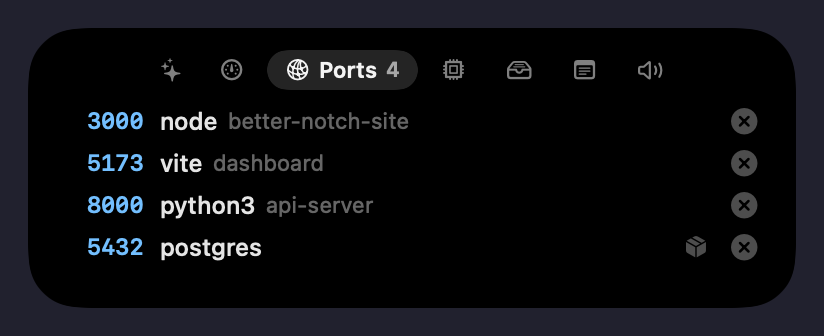
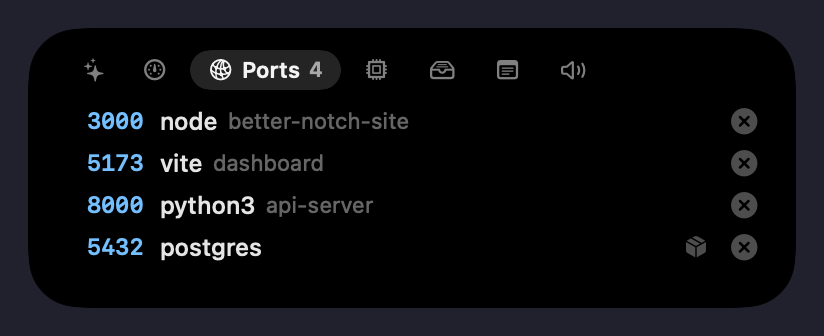
Tab bar lines up with the rows; row hover follows the pointer instantly
- The tab bar starts on the row highlights' 20 pt line instead of centering,
  so the first tab and the session icons share one column
- One continuous hover tracker per list replaces per-row enter and exit
  events and the fade, so the highlight no longer lags the pointer

Changed region(s): [[0.1517, 0.1488, 0.7282, 0.2679], [0.7585, 0.1786, 0.8192, 0.2381], [0.091, 0.1786, 0.1214, 0.2381]]

diff --git a/Notchly/Views/Island/ExtrasPanelView.swift b/Notchly/Views/Island/ExtrasPanelView.swift
@@ -255,8 +255,9 @@ struct ExtrasPanelView: View {
                     .transition(.opacity)
             }
 
+            // Starts on the same line as the row highlights below it, so the panel reads
+            // as one column.
             HStack(spacing: 4) {
-                Spacer(minLength: 0)
                 ForEach(tabs) { tab in
                     TabChip(
                         tab: tab,
@@ -271,6 +272,7 @@ struct ExtrasPanelView: View {
                 }
                 Spacer(minLength: 0)
             }
+            .padding(.leading, IslandMetrics.rowEdgeInset - IslandMetrics.contentInset)
             .frame(height: Self.headerHeight - 4)
             .padding(.bottom, Self.contentGap(for: selected))
 
@@ -465,6 +467,7 @@ struct MicMuteButton: View {
 
 private struct AgentSessionsListView: View {
     @ObservedObject var tracker: AgentSessionTracker
+    @State private var hoveredIndex: Int?
 
     var body: some View {
         if tracker.sessions.isEmpty {
@@ -475,7 +478,7 @@ private struct AgentSessionsListView: View {
         } else {
             TimelineView(.periodic(from: .now, by: 30)) { context in
                 VStack(alignment: .leading, spacing: 0) {
-                    ForEach(tracker.sessions.prefix(6)) { session in
+                    ForEach(Array(tracker.sessions.prefix(6).enumerated()), id: \.element.id) { index, session in
                         Button {
                             tracker.activate(session)
                         } label: {
@@ -483,10 +486,11 @@ private struct AgentSessionsListView: View {
                                 .contentShape(Rectangle())
                         }
                         .buttonStyle(.plain)
-                        .islandHoverRow(height: ExtrasPanelView.agentRowHeight)
+                        .islandRow(height: ExtrasPanelView.agentRowHeight, isHighlighted: hoveredIndex == index)
                         .help(Text(verbatim: "\(session.sourceLabel) · \(session.displayName) · click to show it"))
                     }
                 }
+                .islandRowHover(rowHeight: ExtrasPanelView.agentRowHeight, hoveredIndex: $hoveredIndex)
             }
         }
     }
@@ -618,6 +622,7 @@ private struct WorkingDots: View {
 
 private struct AudioOutputListView: View {
     @ObservedObject var manager: AudioOutputManager
+    @State private var hoveredIndex: Int?
 
     var body: some View {
         if manager.devices.isEmpty {
@@ -627,7 +632,7 @@ private struct AudioOutputListView: View {
                 .frame(height: ExtrasPanelView.outputRowHeight)
         } else {
             VStack(alignment: .leading, spacing: 0) {
-                ForEach(manager.devices.prefix(6)) { device in
+                ForEach(Array(manager.devices.prefix(6).enumerated()), id: \.element.id) { index, device in
                     let isCurrent = device.id == manager.defaultDeviceID
                     Button {
                         manager.select(device)
@@ -651,9 +656,10 @@ private struct AudioOutputListView: View {
                         .contentShape(Rectangle())
                     }
                     .buttonStyle(.plain)
-                    .islandHoverRow(height: ExtrasPanelView.outputRowHeight)
+                    .islandRow(height: ExtrasPanelView.outputRowHeight, isHighlighted: hoveredIndex == index)
                 }
             }
+            .islandRowHover(rowHeight: ExtrasPanelView.outputRowHeight, hoveredIndex: $hoveredIndex)
         }
     }
 }

diff --git a/Notchly/Views/Island/IslandMetrics.swift b/Notchly/Views/Island/IslandMetrics.swift
@@ -42,12 +42,12 @@ enum IslandMetrics {
     }
 }
 
-/// A clickable row in an opened panel: highlights on hover. The highlight sits
-/// `rowEdgeInset` from the island's sides and bottom so its rounded ends run parallel to
-/// the notch's corners; the row's content sits `rowContentPadding` inside it.
-struct IslandHoverRow: ViewModifier {
+/// A clickable row in an opened panel. The highlight sits `rowEdgeInset` from the
+/// island's sides and bottom so its rounded ends run parallel to the notch's corners;
+/// the row's content sits `rowContentPadding` inside it.
+struct IslandRow: ViewModifier {
     let height: CGFloat
-    @State private var isHovered = false
+    let isHighlighted: Bool
 
     func body(content: Content) -> some View {
         content
@@ -55,20 +55,42 @@ struct IslandHoverRow: ViewModifier {
             .frame(height: height)
             .background(
                 RoundedRectangle(cornerRadius: IslandMetrics.rowRadius, style: .continuous)
-                    .fill(Color.white.opacity(isHovered || SnapshotRendering.showsRowHighlights ? 0.1 : 0))
+                    .fill(Color.white.opacity(isHighlighted || SnapshotRendering.showsRowHighlights ? 0.1 : 0))
             )
             .contentShape(Rectangle())
             // The panel already insets its content by `contentInset`; move in the rest.
             .padding(.horizontal, IslandMetrics.rowEdgeInset - IslandMetrics.contentInset)
-            .onHover { hovering in
-                withAnimation(.easeOut(duration: 0.12)) { isHovered = hovering }
-                if hovering { NSCursor.pointingHand.set() } else { NSCursor.arrow.set() }
+    }
+}
+
+/// Tracks the pointer over a list of equal-height rows. One tracker for the whole list
+/// follows every mouse move, so the highlight never lags behind the pointer the way
+/// separate enter and exit events per row can.
+struct IslandRowHover: ViewModifier {
+    let rowHeight: CGFloat
+    @Binding var hoveredIndex: Int?
+
+    func body(content: Content) -> some View {
+        content.onContinuousHover { phase in
+            switch phase {
+            case let .active(location):
+                let index = max(0, Int(location.y / rowHeight))
+                if hoveredIndex != index { hoveredIndex = index }
+                NSCursor.pointingHand.set()
+            case .ended:
+                hoveredIndex = nil
+                NSCursor.arrow.set()
             }
+        }
     }
 }
 
 extension View {
-    func islandHoverRow(height: CGFloat) -> some View {
-        modifier(IslandHoverRow(height: height))
+    func islandRow(height: CGFloat, isHighlighted: Bool) -> some View {
+        modifier(IslandRow(height: height, isHighlighted: isHighlighted))
+    }
+
+    func islandRowHover(rowHeight: CGFloat, hoveredIndex: Binding<Int?>) -> some View {
+        modifier(IslandRowHover(rowHeight: rowHeight, hoveredIndex: hoveredIndex))
     }
 }
